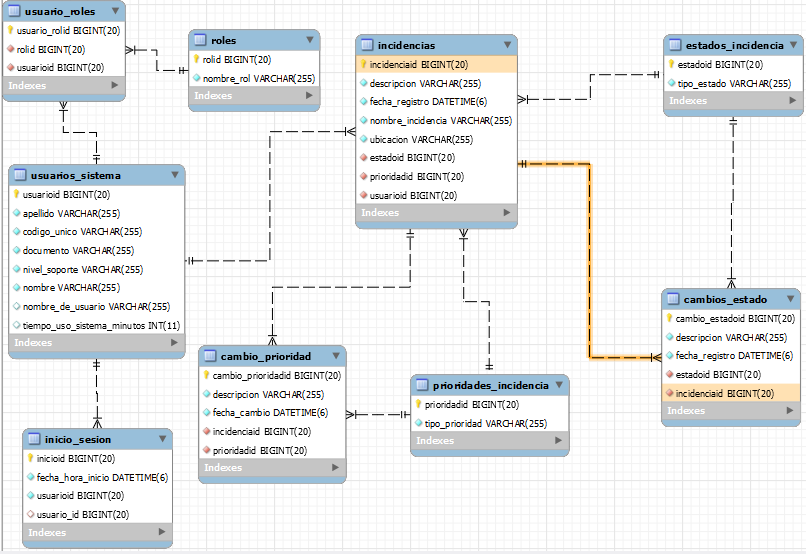
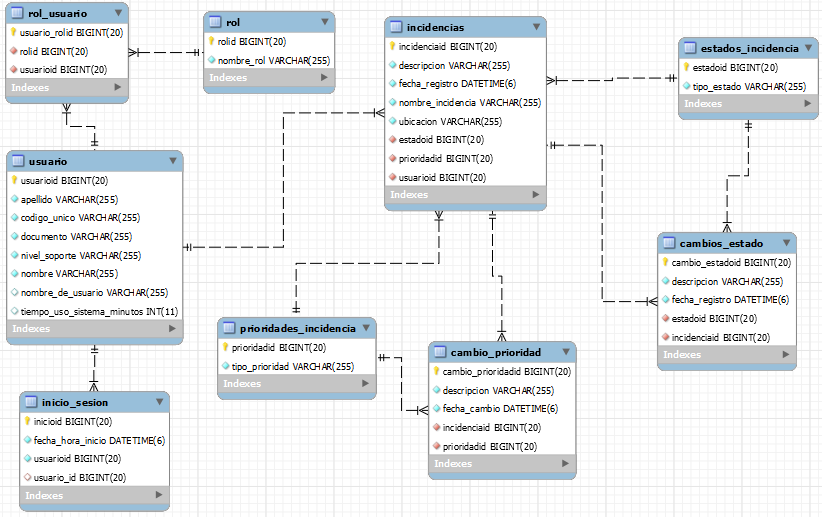
update

diff --git a/BackEnd/src/main/java/com/lazywork/controlador/UsuarioSistemaController.java b/BackEnd/src/main/java/com/lazywork/controlador/UsuarioSistemaController.java
@@ -1,6 +1,6 @@
 package com.lazywork.controlador;
 
-import com.lazywork.entidad.UsuarioSistema;
+import com.lazywork.entidad.Usuario;
 import com.lazywork.servicios.UsuarioSistemaService;
 import org.springframework.beans.factory.annotation.Autowired;
 import org.springframework.http.HttpStatus;
@@ -18,14 +18,14 @@ public class UsuarioSistemaController {
     private UsuarioSistemaService usuarioSistemaService;
 
     @GetMapping("/listar")
-    public ResponseEntity<List<UsuarioSistema>> obtenerTodosLosUsuarios() {
-        List<UsuarioSistema> usuarios = usuarioSistemaService.findAll();
+    public ResponseEntity<List<Usuario>> obtenerTodosLosUsuarios() {
+        List<Usuario> usuarios = usuarioSistemaService.findAll();
         return ResponseEntity.ok(usuarios);
     }
 
     @GetMapping("/{id}")
-    public ResponseEntity<UsuarioSistema> obtenerUsuarioPorId(@PathVariable String id) {
-        Optional<UsuarioSistema> usuario = usuarioSistemaService.findById(id);
+    public ResponseEntity<Usuario> obtenerUsuarioPorId(@PathVariable String id) {
+        Optional<Usuario> usuario = usuarioSistemaService.findById(id);
         if (usuario.isPresent()) {
             return ResponseEntity.ok(usuario.get());
         } else {
@@ -34,13 +34,13 @@ public class UsuarioSistemaController {
     }
 
     @PostMapping("/crear")
-    public ResponseEntity<UsuarioSistema> crearUsuario(@RequestBody UsuarioSistema usuario) {
+    public ResponseEntity<Usuario> crearUsuario(@RequestBody Usuario usuario) {
         // Asegúrate de que el ID del usuario esté vacío o sea nulo antes de guardar
         if (usuario.getUsuarioID() != null) {
             return ResponseEntity.badRequest().body(null); // ID ya existe, devuelve un error 400 Bad Request
         }
 
-        UsuarioSistema nuevoUsuario = usuarioSistemaService.save(usuario);
+        Usuario nuevoUsuario = usuarioSistemaService.save(usuario);
 
         if (nuevoUsuario != null) {
             return ResponseEntity.status(HttpStatus.CREATED).body(nuevoUsuario);
@@ -51,7 +51,7 @@ public class UsuarioSistemaController {
 
 
     @PutMapping("/actualizar/{id}")
-    public ResponseEntity<UsuarioSistema> actualizarUsuario(@PathVariable String id, @RequestBody UsuarioSistema usuario) {
+    public ResponseEntity<Usuario> actualizarUsuario(@PathVariable String id, @RequestBody Usuario usuario) {
         if (usuarioSistemaService.existeUsuario(id)) {
             usuarioSistemaService.save(usuario);
             return ResponseEntity.ok(usuario);

diff --git a/BackEnd/src/main/java/com/lazywork/controlador/UsuarioRolController.java b/BackEnd/src/main/java/com/lazywork/controlador/UsuarioRolController.java
@@ -1,7 +1,7 @@
 package com.lazywork.controlador;
 
-import com.lazywork.entidad.UsuarioRol;
-import com.lazywork.servicios.UsuarioRolesService;
+import com.lazywork.entidad.RolUsuario;
+import com.lazywork.servicios.UsuarioRolService;
 import org.springframework.beans.factory.annotation.Autowired;
 import org.springframework.http.HttpStatus;
 import org.springframework.http.ResponseEntity;
@@ -11,21 +11,21 @@ import java.util.List;
 import java.util.Optional;
 
 @RestController
-@RequestMapping("/usuario-roles")
-public class UsuarioRolesController {
+@RequestMapping("/usuario-rol")
+public class UsuarioRolController {
 
     @Autowired
-    private UsuarioRolesService usuarioRolesService;
+    private UsuarioRolService servicioUR;
 
     @GetMapping
-    public ResponseEntity<List<UsuarioRol>> obtenerTodosLosUsuarioRoles() {
-        List<UsuarioRol> usuarioRoles = usuarioRolesService.obtenerTodosLosUsuarioRoles();
+    public ResponseEntity<List<RolUsuario>> obtenerTodosLosUsuarioRoles() {
+        List<RolUsuario> usuarioRoles = servicioUR.obtenerTodosLosUsuarioRoles();
         return ResponseEntity.ok(usuarioRoles);
     }
 
     @GetMapping("/{id}")
-    public ResponseEntity<UsuarioRol> obtenerUsuarioRolesPorId(@PathVariable String id) {
-        Optional<UsuarioRol> usuarioRoles = usuarioRolesService.obtenerUsuarioRolesPorId(id);
+    public ResponseEntity<RolUsuario> obtenerUsuarioRolesPorId(@PathVariable String id) {
+        Optional<RolUsuario> usuarioRoles = servicioUR.obtenerUsuarioRolesPorId(id);
         if (usuarioRoles.isPresent()) {
             return ResponseEntity.ok(usuarioRoles.get());
         } else {
@@ -34,14 +34,14 @@ public class UsuarioRolesController {
     }
 
     @PostMapping
-    public ResponseEntity<UsuarioRol> crearUsuarioRoles(@RequestBody UsuarioRol usuarioRoles) {
-        UsuarioRol usuarioRolesCreado = usuarioRolesService.crearUsuarioRoles(usuarioRoles);
+    public ResponseEntity<RolUsuario> crearUsuarioRoles(@RequestBody RolUsuario usuarioRoles) {
+        RolUsuario usuarioRolesCreado = servicioUR.crearUsuarioRoles(usuarioRoles);
         return ResponseEntity.status(HttpStatus.CREATED).body(usuarioRolesCreado);
     }
 
     @DeleteMapping("/{id}")
     public ResponseEntity<Void> eliminarUsuarioRoles(@PathVariable String id) {
-        usuarioRolesService.eliminarUsuarioRoles(id);
+        servicioUR.eliminarUsuarioRoles(id);
         return ResponseEntity.noContent().build();
     }
 }

diff --git a/BackEnd/src/main/java/com/lazywork/entidad/RolUsuario.java b/BackEnd/src/main/java/com/lazywork/entidad/RolUsuario.java
@@ -3,8 +3,8 @@ package com.lazywork.entidad;
 import jakarta.persistence.*;
 
 @Entity
-@Table(name = "UsuarioRoles")
-public class UsuarioRol {
+@Table(name = "rol_usuario")
+public class RolUsuario {
 
     @Id
     @GeneratedValue(strategy = GenerationType.IDENTITY)
@@ -13,7 +13,7 @@ public class UsuarioRol {
 
     @ManyToOne
     @JoinColumn(name = "UsuarioID", nullable = false)
-    private UsuarioSistema usuario;
+    private Usuario usuario;
 
     @ManyToOne
     @JoinColumn(name = "RolID", nullable = false)
@@ -29,11 +29,11 @@ public class UsuarioRol {
         this.usuarioRolID = usuarioRolID;
     }
 
-    public UsuarioSistema getUsuario() {
+    public Usuario getUsuario() {
         return usuario;
     }
 
-    public void setUsuario(UsuarioSistema usuario) {
+    public void setUsuario(Usuario usuario) {
         this.usuario = usuario;
     }
 
@@ -47,7 +47,7 @@ public class UsuarioRol {
 
     @Override
     public String toString() {
-        return "UsuarioRol{" +
+        return "RolUsuario{" +
                 "usuarioRolID=" + usuarioRolID +
                 ", usuario=" + usuario +
                 ", rol=" + rol +

diff --git a/BackEnd/src/main/java/com/lazywork/servicios/UsuarioSistemaService.java b/BackEnd/src/main/java/com/lazywork/servicios/UsuarioSistemaService.java
@@ -1,6 +1,6 @@
 package com.lazywork.servicios;
 
-import com.lazywork.entidad.UsuarioSistema;
+import com.lazywork.entidad.Usuario;
 import com.lazywork.repositorio.UsuarioSistemaCrudRepository;
 import org.springframework.beans.factory.annotation.Autowired;
 import org.springframework.stereotype.Service;
@@ -19,15 +19,15 @@ public class UsuarioSistemaService {
         return usuarioSistemaCrudRepository.existsById(idUsuario);
     }
 
-    public Optional<UsuarioSistema> findById(String id) {
+    public Optional<Usuario> findById(String id) {
         return usuarioSistemaCrudRepository.findById(id);
     }
 
-    public List<UsuarioSistema> findAll() {
-        return (List<UsuarioSistema>) usuarioSistemaCrudRepository.findAll();
+    public List<Usuario> findAll() {
+        return (List<Usuario>) usuarioSistemaCrudRepository.findAll();
     }
 
-    public UsuarioSistema save(UsuarioSistema usuario) {
+    public Usuario save(Usuario usuario) {
         try {
             return usuarioSistemaCrudRepository.save(usuario);
         } catch (Exception e) {

diff --git a/BackEnd/src/main/java/com/lazywork/entidad/Usuario.java b/BackEnd/src/main/java/com/lazywork/entidad/Usuario.java
@@ -3,8 +3,8 @@ package com.lazywork.entidad;
 import jakarta.persistence.*;
 
 @Entity
-@Table(name = "UsuariosSistema")
-public class UsuarioSistema {
+@Table(name = "Usuario")
+public class Usuario {
 
     @Id
     @GeneratedValue(strategy = GenerationType.IDENTITY)
@@ -88,7 +88,7 @@ public class UsuarioSistema {
     }
     private String nombreDeUsuario;
 
-    public UsuarioSistema(String nombreDeUsuario) {
+    public Usuario(String nombreDeUsuario) {
         this.nombreDeUsuario = nombreDeUsuario;
         // Puedes agregar más lógica de inicialización aquí si es necesario
     }
@@ -104,7 +104,7 @@ public class UsuarioSistema {
 
     @Override
     public String toString() {
-        return "UsuarioSistema{" +
+        return "Usuario{" +
                 "usuarioID=" + usuarioID +
                 ", codigoUnico='" + codigoUnico + '\'' +
                 ", nombre='" + nombre + '\'' +

diff --git a/BackEnd/src/main/java/com/lazywork/servicios/UsuarioRolService.java b/BackEnd/src/main/java/com/lazywork/servicios/UsuarioRolService.java
@@ -1,0 +1,33 @@
+package com.lazywork.servicios;
+
+import com.lazywork.entidad.RolUsuario;
+import com.lazywork.repositorio.UsuarioRolCrudRepository;
+
+import org.springframework.beans.factory.annotation.Autowired;
+import org.springframework.stereotype.Service;
+
+import java.util.List;
+import java.util.Optional;
+
+@Service
+public class UsuarioRolService {
+
+    @Autowired
+    private UsuarioRolCrudRepository repoUR;
+
+    public List<RolUsuario> obtenerTodosLosUsuarioRoles() {
+        return (List<RolUsuario>) repoUR.findAll();
+    }
+
+    public Optional<RolUsuario> obtenerUsuarioRolesPorId(String id) {
+        return repoUR.findById(id);
+    }
+
+    public RolUsuario crearUsuarioRoles(RolUsuario usuarioRoles) {
+        return repoUR.save(usuarioRoles);
+    }
+
+    public void eliminarUsuarioRoles(String id) {
+        repoUR.deleteById(id);
+    }
+}

diff --git a/BackEnd/src/main/java/com/lazywork/entidad/InicioSesion.java b/BackEnd/src/main/java/com/lazywork/entidad/InicioSesion.java
@@ -14,7 +14,7 @@ public class InicioSesion {
 
     @ManyToOne
     @JoinColumn(name = "usuario_id") // Esto puede variar dependiendo de tu modelo de datos
-    private UsuarioSistema usuario;
+    private Usuario usuario;
 
     // Agrega el campo usuarioid con su respectiva columna y relación con el usuario
     @Column(name = "usuarioid", nullable = false)
@@ -34,11 +34,11 @@ public class InicioSesion {
         this.inicioID = inicioID;
     }
 
-    public UsuarioSistema getUsuario() {
+    public Usuario getUsuario() {
         return usuario;
     }
 
-    public void setUsuario(UsuarioSistema usuario) {
+    public void setUsuario(Usuario usuario) {
         this.usuario = usuario;
         // Asigna el ID del usuario al campo 'usuarioid'
         this.usuarioid = usuario != null ? usuario.getUsuarioID() : null;

diff --git a/BackEnd/src/main/java/com/lazywork/controlador/RolController.java b/BackEnd/src/main/java/com/lazywork/controlador/RolController.java
@@ -3,7 +3,7 @@ package com.lazywork.controlador;
 
 
         import com.lazywork.entidad.Rol;
-        import com.lazywork.servicios.RolesService;
+        import com.lazywork.servicios.RolService;
         import org.springframework.beans.factory.annotation.Autowired;
         import org.springframework.http.HttpStatus;
         import org.springframework.http.ResponseEntity;
@@ -17,7 +17,7 @@ package com.lazywork.controlador;
 public class RolController {
 
     @Autowired
-    private RolesService rolesService;
+    private RolService rolesService;
 
     @GetMapping
     public ResponseEntity<List<Rol>> obtenerTodosLosRoles() {

diff --git a/BackEnd/src/main/java/com/lazywork/entidad/Incidencia.java b/BackEnd/src/main/java/com/lazywork/entidad/Incidencia.java
@@ -16,7 +16,7 @@ public class Incidencia {
 
     @ManyToOne
     @JoinColumn(name = "UsuarioID", nullable = false)
-    private UsuarioSistema usuario;
+    private Usuario usuario;
 
     @Column(name = "Ubicacion", nullable = false)
     private String ubicacion;
@@ -48,11 +48,11 @@ public class Incidencia {
         this.incidenciaID = incidenciaID;
     }
 
-    public UsuarioSistema getUsuario() {
+    public Usuario getUsuario() {
         return usuario;
     }
 
-    public void setUsuario(UsuarioSistema usuario) {
+    public void setUsuario(Usuario usuario) {
         this.usuario = usuario;
     }
 

diff --git a/BackEnd/src/main/java/com/lazywork/repositorio/UsuarioRolCrudRepository.java b/BackEnd/src/main/java/com/lazywork/repositorio/UsuarioRolCrudRepository.java
@@ -1,8 +1,7 @@
 package com.lazywork.repositorio;
 
-import com.lazywork.entidad.UsuarioRol;
-import com.lazywork.entidad.UsuarioSistema;
+import com.lazywork.entidad.RolUsuario;
 import org.springframework.data.repository.CrudRepository;
 
-public interface UsuarioRolCrudRepository extends CrudRepository<UsuarioRol, String> {
+public interface UsuarioRolCrudRepository extends CrudRepository<RolUsuario, String> {
 }

diff --git a/BackEnd/src/main/java/com/lazywork/repositorio/UsuarioSistemaCrudRepository.java b/BackEnd/src/main/java/com/lazywork/repositorio/UsuarioSistemaCrudRepository.java
@@ -1,7 +1,7 @@
 package com.lazywork.repositorio;
 
-import com.lazywork.entidad.UsuarioSistema;
+import com.lazywork.entidad.Usuario;
 import org.springframework.data.repository.CrudRepository;
 
-public interface UsuarioSistemaCrudRepository extends CrudRepository<UsuarioSistema, String> {
+public interface UsuarioSistemaCrudRepository extends CrudRepository<Usuario, String> {
 }

diff --git a/BackEnd/src/main/java/com/lazywork/repositorio/PrioridadesIncidenciasCrudRepository.java b/BackEnd/src/main/java/com/lazywork/repositorio/PrioridadesIncidenciasCrudRepository.java
@@ -1,7 +1,6 @@
 package com.lazywork.repositorio;
 
 import com.lazywork.entidad.PrioridadIncidencia;
-import com.lazywork.entidad.UsuarioSistema;
 import org.springframework.data.repository.CrudRepository;
 
 public interface PrioridadesIncidenciasCrudRepository extends CrudRepository<PrioridadIncidencia, String> {
